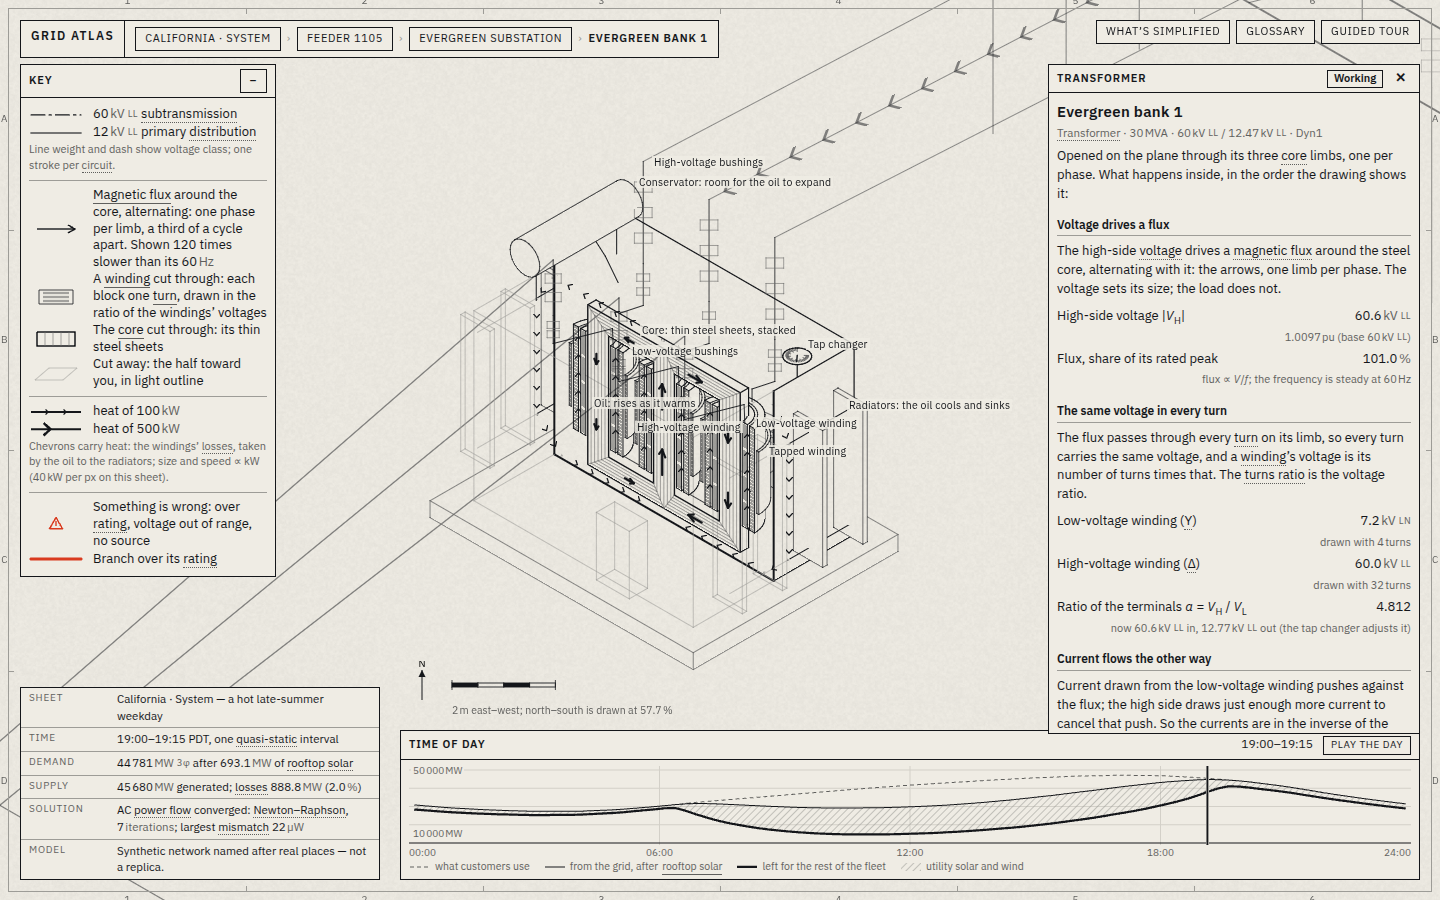
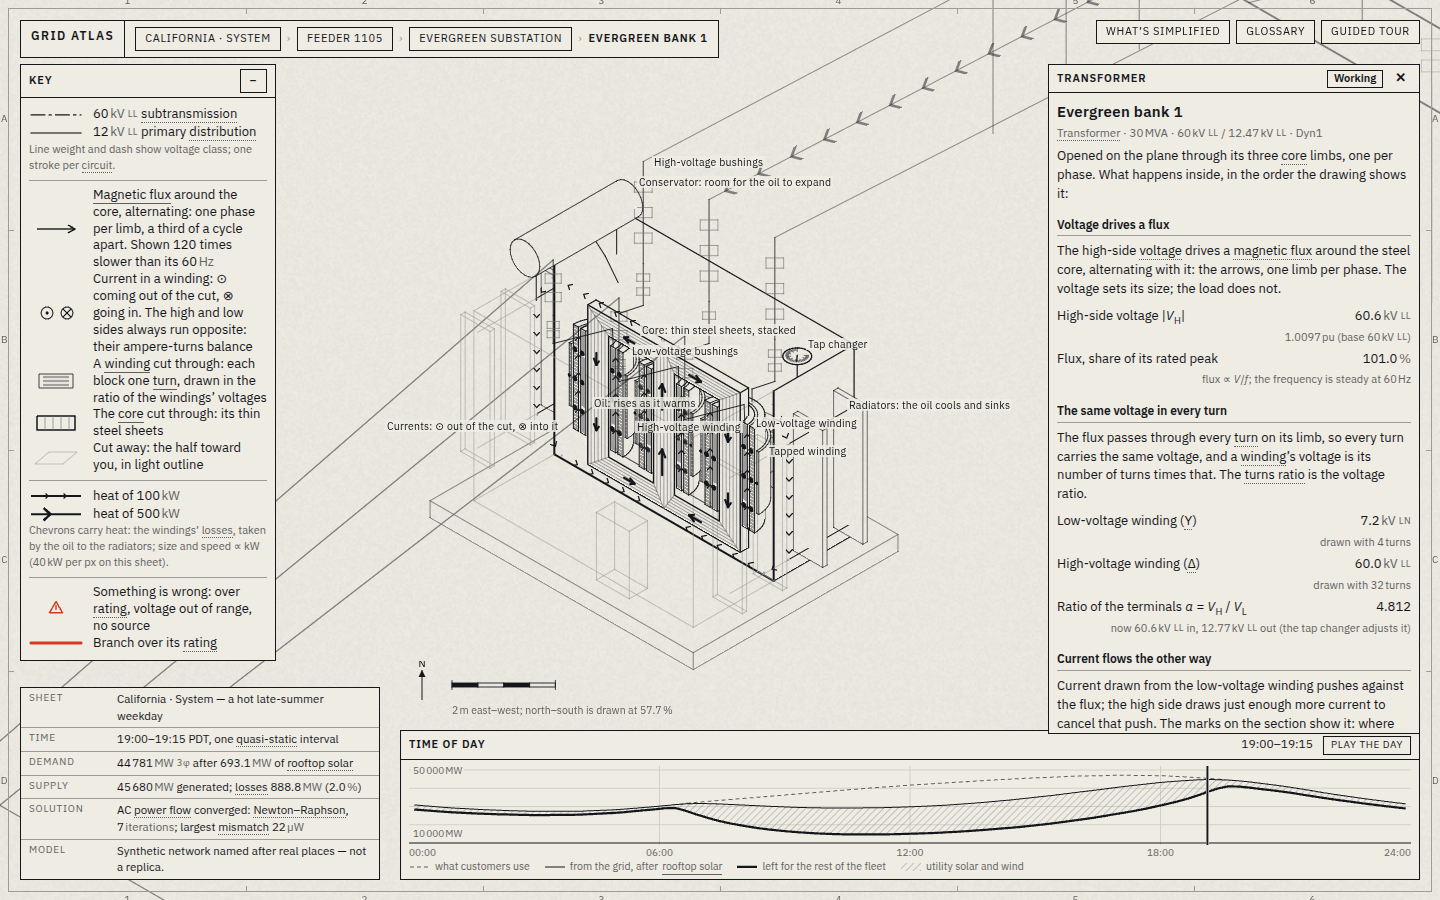
Transformer: the windings' currents shown, ⊙ out of the cut and ⊗ in
The transformer section showed the flux and the oil's heat, but its
currents only in words. Now each main winding's section carries ⊙/⊗
marks on both sides of each limb, alternating with that limb's solved
current: a quarter cycle from the flux, less the power-factor angle
seen at the high side. The high and low sides always run opposite (their
ampere-turns balance), the two sides of a limb are opposite, and the
tertiary carries none. The key, the inspector's "current flows the other
way" and the honesty panel say so.

Found on the way: the marks' opacity was copied from a setter-only
property and came out undefined; both batches now share one computed
value.

Claude-Session: https://claude.ai/code/session_01BqyUZkC5SNeVuhJBcb8SGE

Changed region(s): [[0.0, 0.28, 0.1875, 0.7467], [0.8125, 0.7778, 0.9688, 0.8089], [0.2812, 0.4667, 0.375, 0.4978]]

diff --git a/src/levels/transformer.ts b/src/levels/transformer.ts
@@ -141,6 +141,10 @@ export class TransformerLevel implements Level {
   readonly core: CoreGeom;
   private morphValue = 1;
   private flux = new LineBatch('xf-flux');
+  /** Each winding's current in the section: ⊙ out of the cut, ⊗ into it (a circle, a dot, a cross). */
+  private current = new LineBatch('xf-current');
+  private currentMarks: Array<{ limb: number; sign: number; circle: number[]; dot: number[]; cross: number[] }> = [];
+  private phi = 0;
   private arrows: FluxArrow[] = [];
   private fluxAmp = 0;
   private oil: Array<{ flow: number; share: number }> = [];
@@ -284,6 +288,48 @@ export class TransformerLevel implements Level {
       this.labels.push({ id: `xf:w:${w.role}`, text: w.name, anchor: Pt(lu, a1, v0), priority: 8 - wi * 0.5, minZoom: 0, kind: 'equip' });
     });
 
+    // ---- the current in each winding, marked on its section: ⊙ coming out of the cut toward
+    // the viewer, ⊗ going in. Current round a limb comes out on one side and goes in on the
+    // other; the high side's and the low side's are always opposite (their ampere-turns
+    // balance). The tertiary carries none.
+    this.current.mesh.renderOrder = 32;
+    sk.group.add(this.current.mesh);
+    const cst = { width: 1.3, color: INK, collapse: sk.anchor, stagger: 0.4 };
+    const vm = v0 - 0.03;
+    G.windings.forEach((w) => {
+      if (w.role === 'tertiary') return;
+      const wsign = w.role === 'hv' || w.role === 'series' ? 1 : -1;
+      const a0 = w.role === 'tap' ? h0 + (h1 - h0) * 0.2 : h0;
+      const a1 = w.role === 'tap' ? h1 - (h1 - h0) * 0.2 : h1;
+      uk.forEach((u, limb) => {
+        for (const s of [-1, 1]) {
+          const x0 = s < 0 ? u - w.ro : u + w.ri;
+          const x1 = s < 0 ? u - w.ri : u + w.ro;
+          const cu = (x0 + x1) / 2;
+          const rm = Math.min(0.32 * (x1 - x0), 0.06 * (a1 - a0));
+          const marks = w.role === 'tap' ? [0.5] : [0.22, 0.5, 0.78];
+          for (const f of marks) {
+            const ch = a0 + (a1 - a0) * f;
+            const P = (du: number, dh: number): Vec3 => Pt(cu + du, ch + dh, vm);
+            const circle: number[] = [];
+            for (let i = 0; i < 14; i++) {
+              const t0 = (2 * Math.PI * i) / 14;
+              const t1 = (2 * Math.PI * (i + 1)) / 14;
+              circle.push(this.current.segment(P(rm * Math.cos(t0), rm * Math.sin(t0)), P(rm * Math.cos(t1), rm * Math.sin(t1)), cst));
+            }
+            const d = rm * 0.22;
+            const dot = [this.current.segment(P(-d, 0), P(0, d), { ...cst, width: 2 }), this.current.segment(P(0, d), P(d, 0), { ...cst, width: 2 }), this.current.segment(P(d, 0), P(0, -d), { ...cst, width: 2 }), this.current.segment(P(0, -d), P(-d, 0), { ...cst, width: 2 })];
+            const x = rm * 0.62;
+            const cross = [this.current.segment(P(-x, -x), P(x, x), cst), this.current.segment(P(-x, x), P(x, -x), cst)];
+            // positive current (the high side's, into its terminal) comes out of the cut on the limb's −u side
+            this.currentMarks.push({ limb, sign: wsign * -s, circle, dot, cross });
+          }
+        }
+      });
+    });
+    this.current.commit();
+    this.labels.push({ id: 'xf:current', text: 'Currents: ⊙ out of the cut, ⊗ into it', anchor: Pt(uk[2]! + G.windings[G.windings.length - 1]!.ro, h0, v0), priority: 7, minZoom: 0, kind: 'equip' });
+
     // ---- leads from the bushings down to the windings
     sk.stagger = 0.34;
     const outer = G.windings.filter((w) => w.role !== 'tap' && w.role !== 'tertiary');
@@ -424,6 +470,8 @@ export class TransformerLevel implements Level {
     const on = !!st?.on;
     // flux ∝ V/f: its size follows the high-side voltage
     this.fluxAmp = on ? st!.vH : 0;
+    // the load current lags the voltage by the power-factor angle seen at the high side
+    this.phi = on ? Math.atan2(st!.qH, st!.pH) : 0;
     // heat carried by the oil, kW, shared along its paths
     const kw = on ? Math.max(0, st!.loss * 1000) : 0;
     const sc = this.flowScale;
@@ -445,6 +493,7 @@ export class TransformerLevel implements Level {
   frame(o: FrameInfo): void {
     this.sk.frame(o);
     this.flux.frame(o);
+    this.current.frame(o);
     // one 60 Hz cycle shown over `slowdown / 60` seconds; phase A leads, B and C 120° behind
     const w = (2 * Math.PI * COMPONENTS.fHz) / COMPONENTS.slowdown;
     const phi = [0, 1, 2].map((k) => this.fluxAmp * Math.cos(w * o.time - (k * 2 * Math.PI) / 3));
@@ -472,13 +521,28 @@ export class TransformerLevel implements Level {
       const vis = len > 0.04 ? 1 : 0;
       for (const sg of a.segs) this.flux.setAlpha(sg, vis);
     }
+    // each limb's winding current: a quarter cycle ahead of its flux, less the power-factor
+    // angle (flux lags the voltage by 90°, the current lags it by φ)
+    const st = this.state;
+    const carrying = !!st?.on && Math.hypot(st.pH, st.qH) > 1e-3;
+    const i = [0, 1, 2].map((k) => Math.cos(w * o.time + Math.PI / 2 - this.phi - (k * 2 * Math.PI) / 3));
+    for (const m of this.currentMarks) {
+      const val = m.sign * i[m.limb]!;
+      const a = carrying ? Math.min(1, 0.2 + Math.abs(val)) : 0;
+      for (const s of m.circle) this.current.setAlpha(s, a);
+      for (const s of m.dot) this.current.setAlpha(s, val > 0.05 ? a : 0);
+      for (const s of m.cross) this.current.setAlpha(s, val < -0.05 ? a : 0);
+    }
   }
 
   set morph(m: number) {
     this.morphValue = m;
     this.sk.morph = m;
+    const shown = Math.max(0, Math.min(1, (m - 0.85) / 0.15));
     this.flux.morph = m;
-    this.flux.opacity = Math.max(0, Math.min(1, (m - 0.85) / 0.15));
+    this.flux.opacity = shown;
+    this.current.morph = m;
+    this.current.opacity = shown;
   }
 
   get morph(): number {

diff --git a/src/app/inspect-parts.ts b/src/app/inspect-parts.ts
@@ -149,7 +149,7 @@ export function transformerLevelView(p: XfmrPlate, core: CoreGeom, st: XfmrState
     rows3.push({ label: span('Common winding: the difference $I_L − I_H$'), value: el(qty(st.iL - st.iH, 'A', d('iCommon', iHq, iLq), { digits: 0 })), note: span('the series winding carries $I_H$; the rest of the power passes straight through the shared turns') });
   sections.push({
     title: span('Current flows the other way'),
-    text: span('Current drawn from the low-voltage winding pushes against the flux; the high side draws just enough more current to cancel that push. So the currents are in the inverse of the turns ratio, and the power passes through.'),
+    text: span('Current drawn from the low-voltage winding pushes against the flux; the high side draws just enough more current to cancel that push. The marks on the section show it: where one winding’s current comes out of the cut (⊙) the other’s goes in (⊗), and they turn over together, about a quarter cycle apart from the flux. So the currents are in the inverse of the turns ratio, and the power passes through.'),
     rows: rows3,
   });
 

diff --git a/src/ui/legend.ts b/src/ui/legend.ts
@@ -159,6 +159,13 @@ function transformerRows(g: HTMLElement): void {
     el(qty(COMPONENTS.fHz, 'Hz', data('components.fHz'), { digits: 0 })),
   );
   g.appendChild(row(arrow, fx));
+  const ring = (cx: number): Array<[number, number]> => Array.from({ length: 15 }, (_, k) => [cx + 6 * Math.cos((2 * Math.PI * k) / 14), 9 + 6 * Math.sin((2 * Math.PI * k) / 14)] as [number, number]);
+  g.appendChild(
+    row(
+      drawSample(18, [{ pts: ring(18), w: 1 }, { pts: [[17, 9], [18, 8], [19, 9], [18, 10], [17, 9]], w: 1.6 }, { pts: ring(38), w: 1 }, { pts: [[34, 5], [42, 13]], w: 1 }, { pts: [[34, 13], [42, 5]], w: 1 }]),
+      'Current in a winding: ⊙ coming out of the cut, ⊗ going in. The high and low sides always run opposite: their ampere-turns balance',
+    ),
+  );
   g.appendChild(
     row(
       drawSample(18, [

diff --git a/docs/critique/components.md b/docs/critique/components.md
@@ -31,11 +31,12 @@ without a wall of words.
 | 20 | The regulator's tap changer was a small cluster of marks, its three labels piled on each other. | A panel 0.6 m wide at a fit taking in two units and their jumpers. | The panel, selector and preventive autotransformer enlarged within the tank; the fit taken on the cut unit alone. |
 | 21 | The voltage profile was a flat line squeezed against the top of its chart. | The scale always ran over ANSI Range A (114–126 V), while the primary sits within a volt or two of the set point. | The scale fits the voltages and the control's band; Range A is drawn only where it falls inside. |
 | 22 | The regulator's title failed the provenance probe. | "REG-1" is a figure from the data, shown as plain text. | The name carries its data key. |
+| 23 | The transformer's currents were only told, not shown (a standing weakness since the level was built). | No mark for a winding's current in the section. | ⊙/⊗ marks on each main winding, both sides of each limb, alternating with the limb's current (a quarter cycle ahead of the flux, less the power-factor angle); high and low sides always opposite. |
+| 24 | The new current marks did not appear at all. | Their line batch's opacity was copied from the flux batch's, but opacity is a setter only: the copy was undefined. | Both set from the same computed value. |
 
 ## Still wrong or weak
 
 - **The transformer at its fitted zoom is small in a busy frame.** With the key and the inspector open, the free area is some 740 × 700 px. The tank and its bushings take about half of it, and the yard's leads cross in front at half ink.
-- **Currents are only told, not shown.** The section could carry the standard ⊙/⊗ marks for each winding's current: the two sides' currents opposed, alternating with the flux. The inspector says it in words for now.
 - **The breaker's contacts are schematic.** Their proportions and stroke are exaggerated so the gap reads at the fitted zoom; the honesty panel says so.
 - **The other two poles do not move.** The chart shows all three phases clearing, but only the pole cut open is drawn opening.
 - **The GPU cost of the new levels was not measured.** The software rasteriser here runs at under one frame a second for any view at 1440 × 900.

diff --git a/docs/simplifications.md b/docs/simplifications.md
@@ -48,6 +48,7 @@ Format: one `## view-id — Title` section per view or topic. Each item is a bul
 - **Simplified:** A 500/230 kV bank is drawn as one three-phase tank; such banks are usually three single-phase units, one tank per phase, often with a spare. **Full treatment:** Three single-phase autotransformers connected as a bank.
 - **Simplified:** An autotransformer's or a wye–wye bank's delta tertiary carries no load; its voltage (13.8 kV) is a typical value used only to draw its turns. The transmission banks hold their nominal ratio (no tap changers in the model). **Full treatment:** Tertiary loads (reactors, station service) and each bank's tap changer, with its control, in the power flow.
 - **Simplified:** The flux is shown 120 times slower than it alternates, its size following the high-side voltage (flux ∝ V/f); the core never saturates. **Full treatment:** The core's nonlinear magnetization curve: saturation, hysteresis, inrush current when energised, harmonics.
+- **Simplified:** The ⊙/⊗ marks follow each limb's current in time with the high side's power-factor angle, the high and low sides exactly opposite; the small magnetizing current that makes the difference, and any current circulating in the delta tertiary, are not shown. **Full treatment:** Each winding's own current from a model with the core's shunt branch and the delta's circulating (zero-sequence) current.
 - **Simplified:** The oil carries the loss along one idealised loop (up the ducts, over the top, down the radiators, back along the bottom); no temperature is computed. **Full treatment:** A thermal model of top-oil and hot-spot temperatures (the IEEE C57.91 loading guide), fans and pumps staging in, and the insulation's loss of life.
 - **Simplified:** At Evergreen the three phases are close to balanced but not exactly (the feeder model is unbalanced); the currents shown come from the three-phase power, the balanced equivalent. **Full treatment:** Each phase's current from the unbalanced solution.
 

diff --git a/docs/decisions/0025-components.md b/docs/decisions/0025-components.md
@@ -299,8 +299,13 @@ the inside of a piece of equipment, working, driven by the solved state.
 - *A lid that folds away as the zoom proceeds.* The renderer unfolds shapes out of a
   point; it cannot fold a panel about an edge. A wall that shrinks to a point reads as a
   glitch. The cut appears as the band starts, while the tank is still small.
-- *Showing the currents as ⊙/⊗ marks in the section.* It is standard notation, but it is
-  one more layer on a busy section; the inspector says it in words for now.
+- *Showing the currents only in words.* (First rejected the other way: the ⊙/⊗ marks
+  seemed one layer too many on a busy section.) The critique kept finding that the
+  sentence "current flows the other way" did not land, so the marks were added. Each
+  main winding's section carries a few ⊙/⊗ marks on both sides of each limb, following
+  that limb's current in time: a quarter cycle ahead of the flux, less the solved
+  power-factor angle. The high side and the low side are always opposite, and the two
+  sides of a limb are opposite. The tertiary carries none.
 - *A separate "exploded" diagram beside the drawing.* The picture teaches first, in
   place.
 - *Animating the breaker's opening at real speed.* Fifty milliseconds is invisible;

diff --git a/PROGRESS.md b/PROGRESS.md
@@ -225,3 +225,4 @@ Current phase: **all nine phases done** — see the known weaknesses in each pha
     - The inspector charts the voltage along the trunk on the control's base, with the step at the regulator, the band, and what the control sees; a second diagram draws the line-drop compensation.
     - "Raise / Lower the set point" re-solves the feeder with the new set point (`regVset`).
     - The math panel per phase: the ratio, |V_L| = a|V_S|, the PT voltage, the compensator's drop, |V_relay| and its distance from the set point. It is in the arithmetic test; `test/regulator.test.ts` checks the band, the ratio, and the set point's effect.
+  - **Transformer currents shown:** ⊙/⊗ marks on each winding's section, alternating with each limb's solved current, the high and low sides always opposite.
